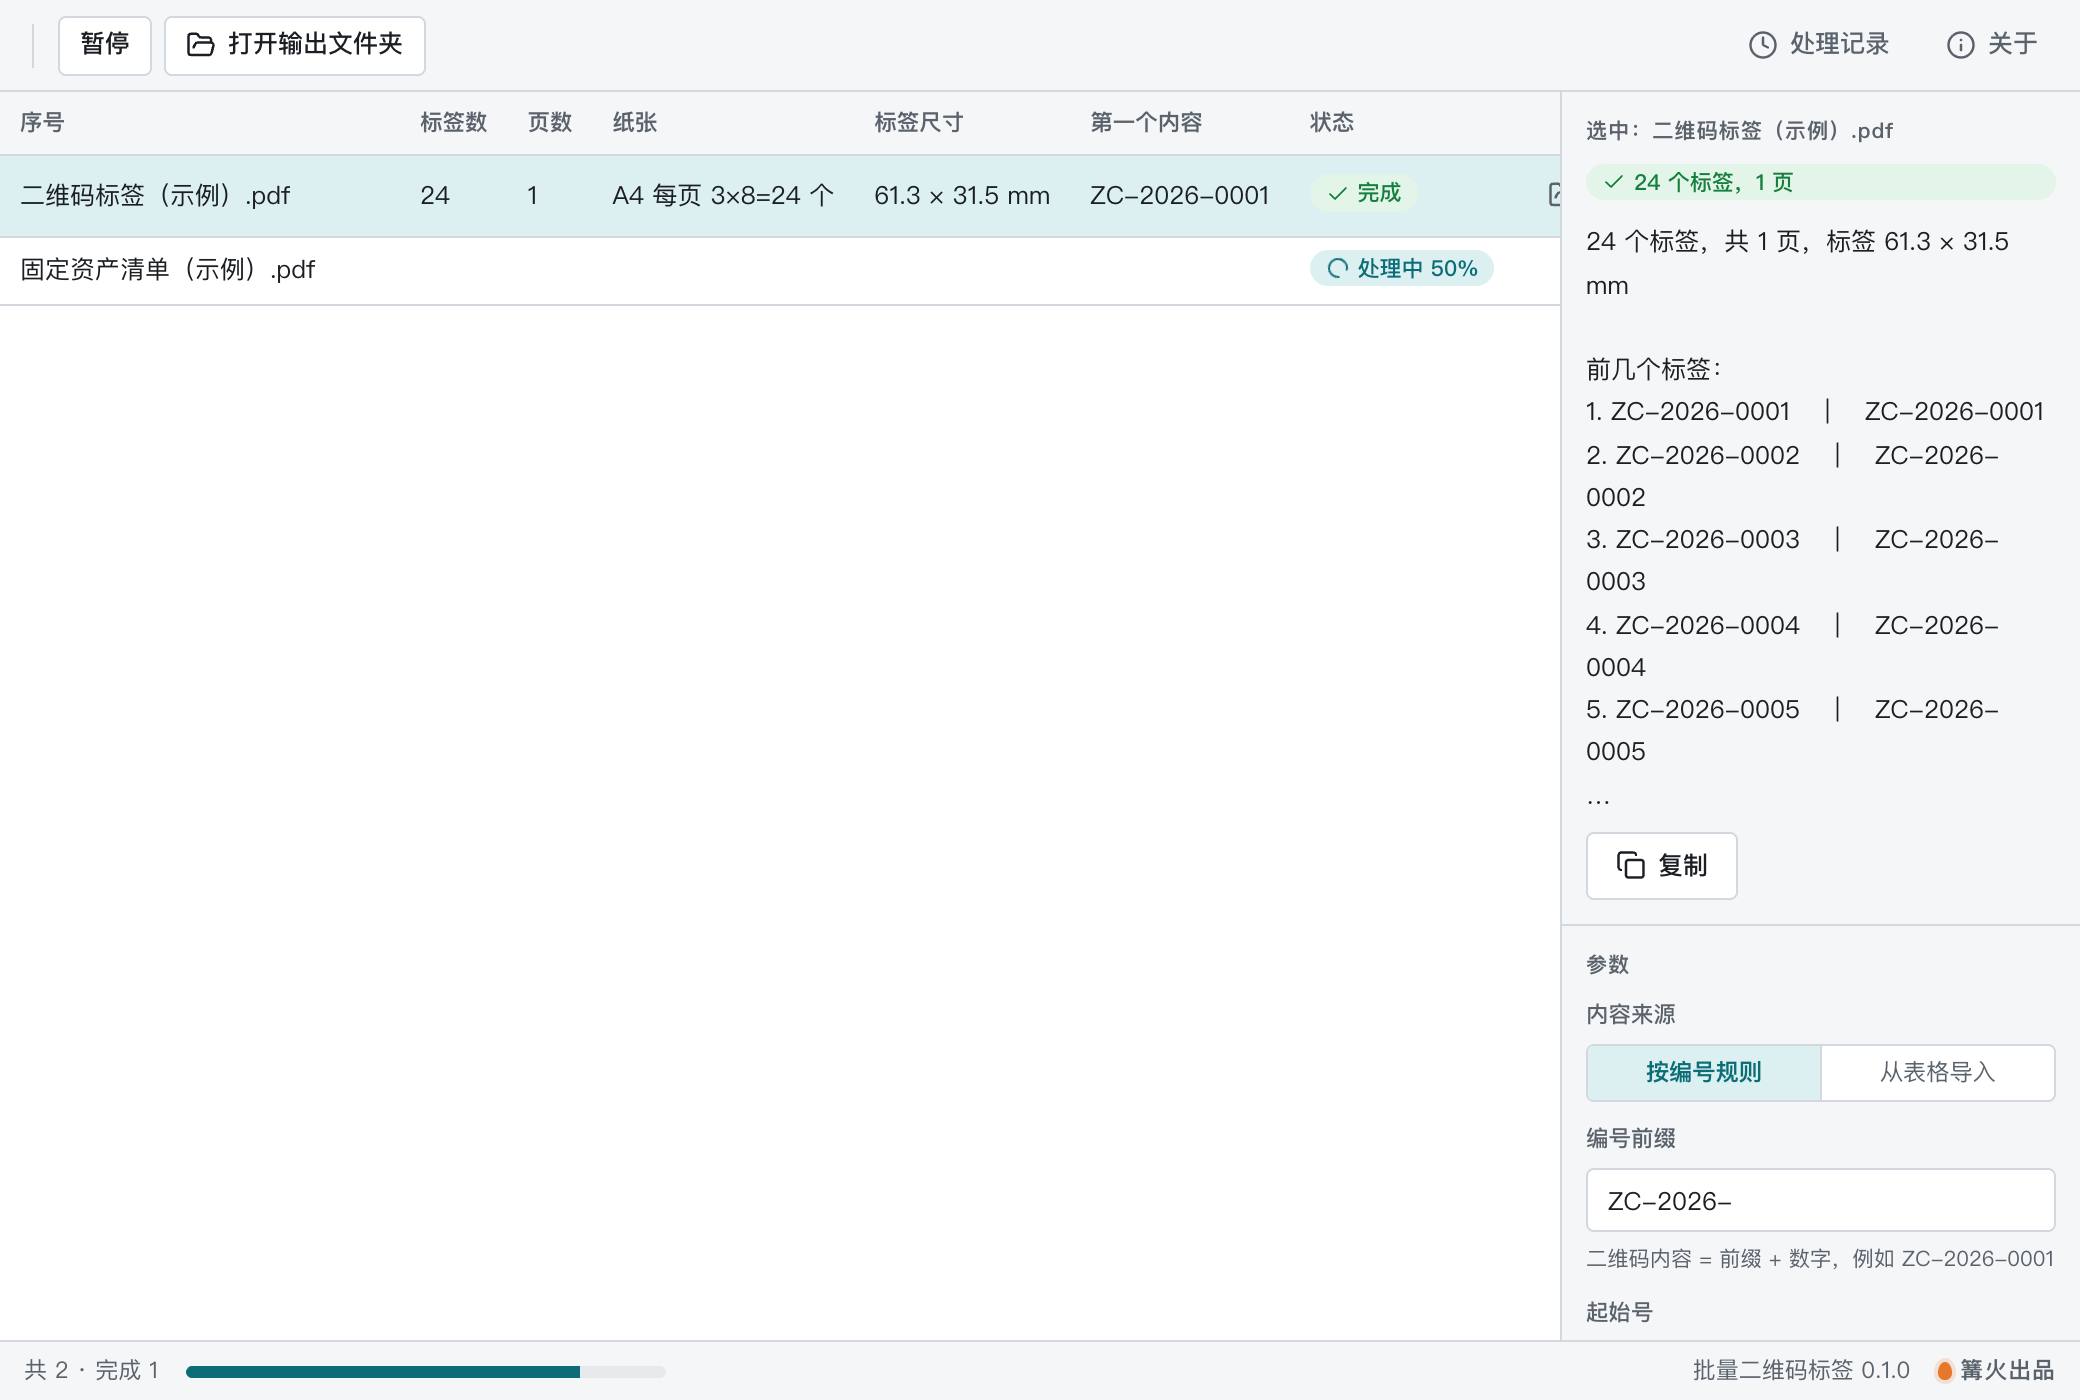
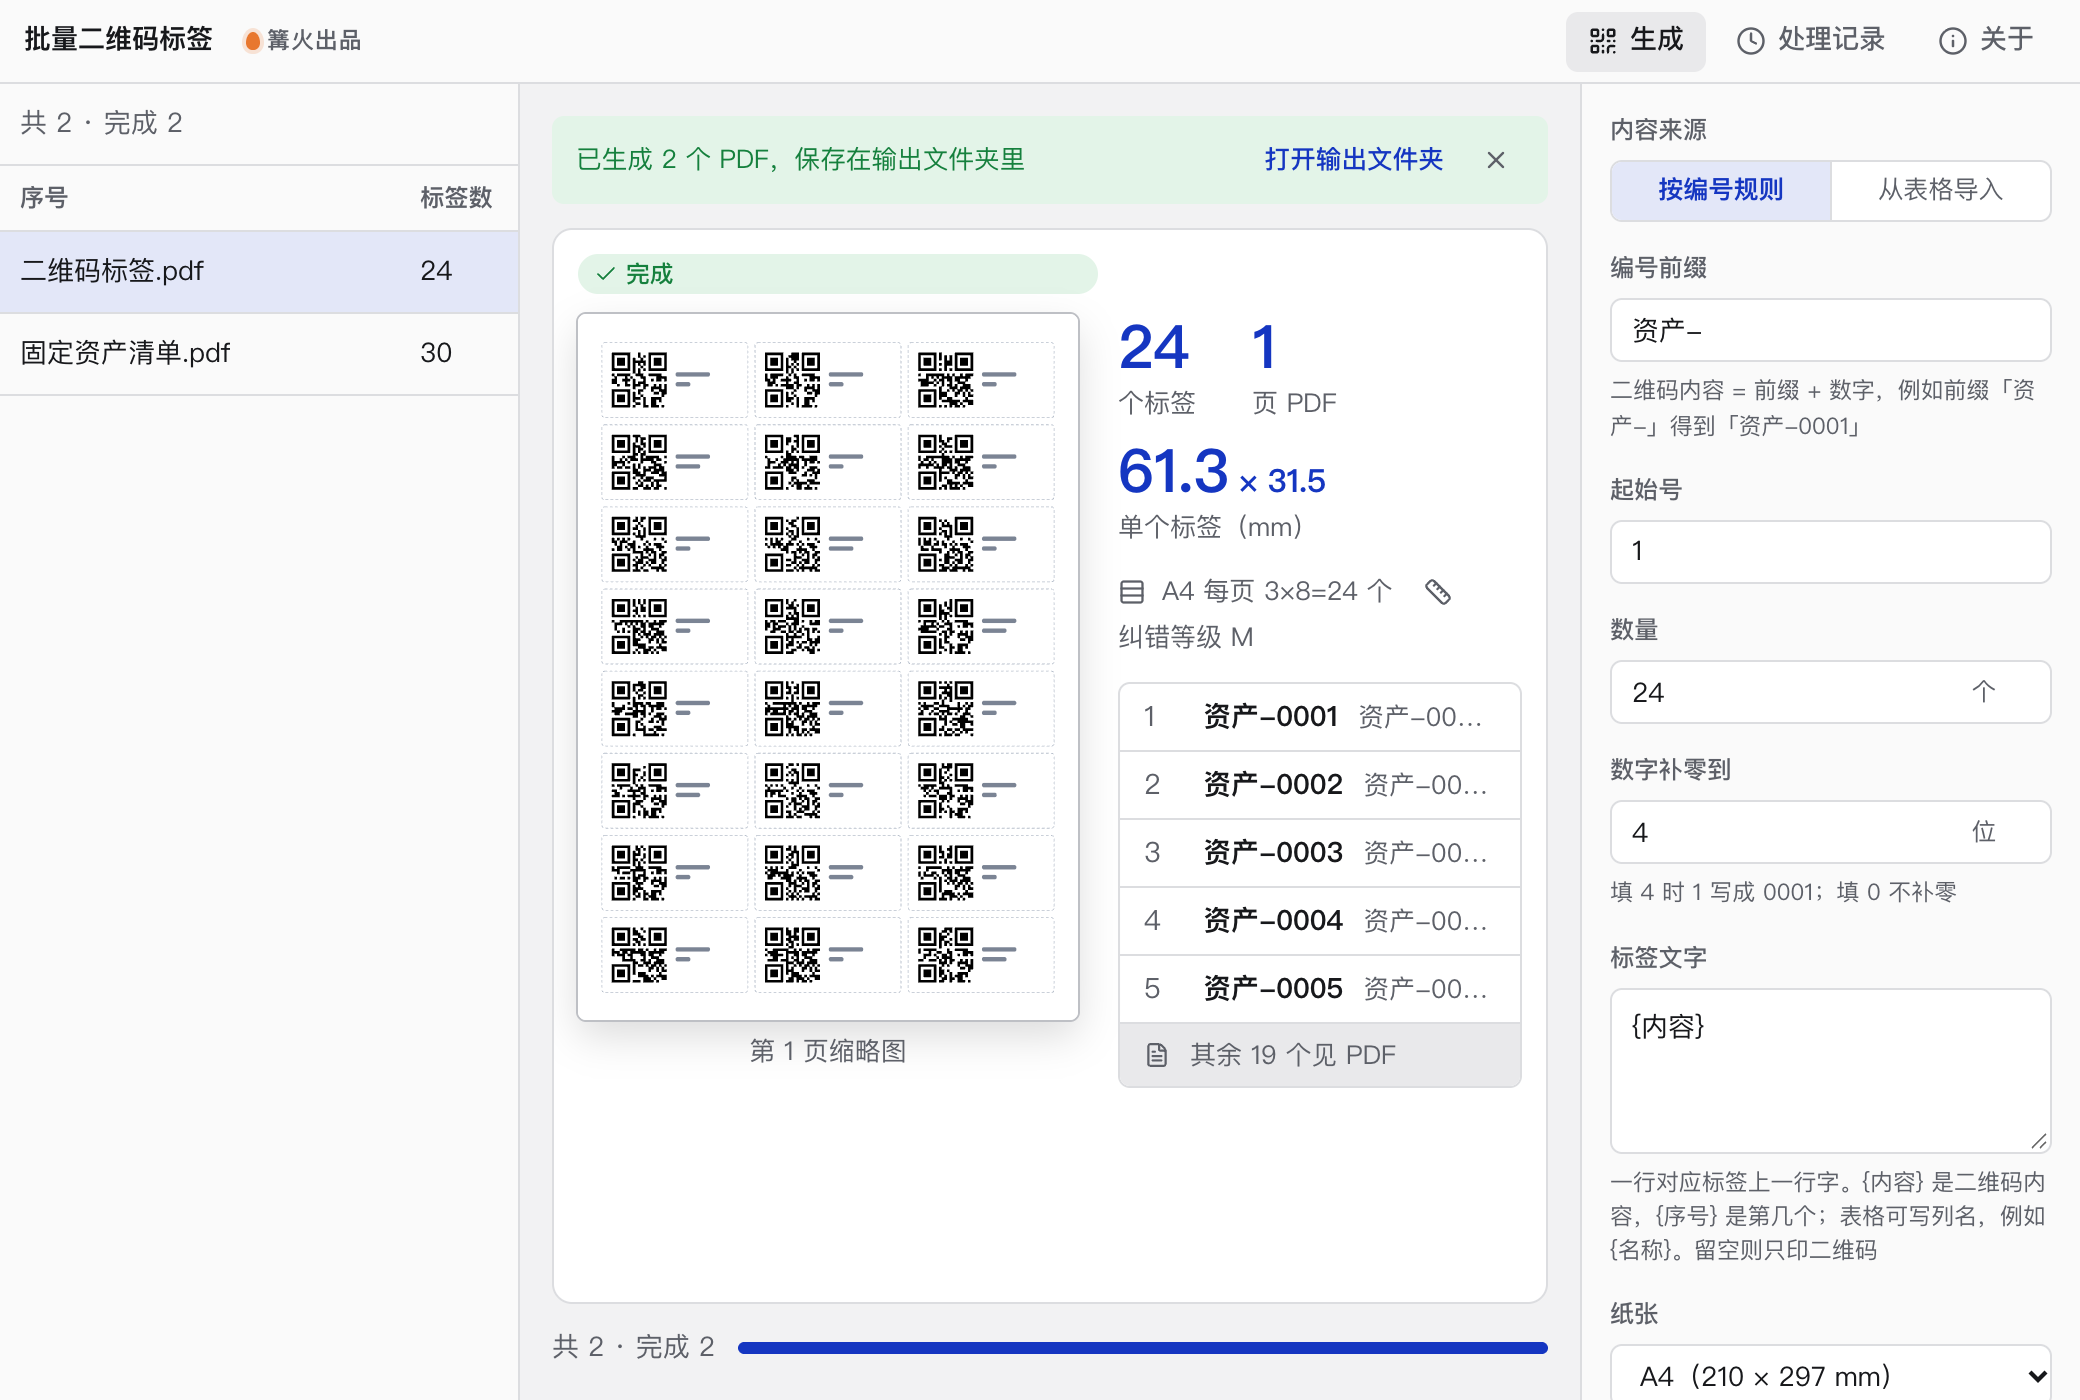
打磨 0.2.0：结果显示整页排版缩略图和大字数据，改用 d 布局

diff --git a/src/tool/Result.tsx b/src/tool/Result.tsx
@@ -1,0 +1,78 @@
+// 单次生成的结果：左边是第一页纸的缩略排版（真实二维码按行列摆好），右边是三个大数字和前几个标签的内容
+import { useMemo } from 'react';
+import { FileText, Ruler, Rows3 } from 'lucide-react';
+import type { InputItem, ItemResult } from '../kit/types';
+import { fmt, innerLayout, qrPath, slot, type Label, type Sheet } from './core';
+import { qrMatrix, type Ecc } from './pdf';
+import './tool.css';
+
+export interface Stat {
+  sheet: Sheet;
+  count: number;
+  pages: number;
+  paper: string;
+  layout: 'left' | 'top';
+  padding: number;
+  fontPt: number;
+  ecc: Ecc;
+  /** 第一页上的标签（最多 48 个），用来画缩略图 */
+  firstPage: Label[];
+  /** 列表里展示的前几个标签 */
+  samples: Label[];
+}
+
+export function statOf(labels: Label[], sheet: Sheet, o: { paper: string; layout: 'left' | 'top'; padding: number; fontPt: number; ecc: Ecc; pages: number; count: number }): Stat {
+  const per = sheet.cols * sheet.rows;
+  return { sheet, count: o.count, pages: o.pages, paper: o.paper, layout: o.layout, padding: o.padding, fontPt: o.fontPt, ecc: o.ecc, firstPage: labels.slice(0, Math.min(per, 48)), samples: labels.slice(0, 5) };
+}
+
+function Cell({ st, label, i }: { st: Stat; label: Label; i: number }) {
+  const s = slot(st.sheet, i);
+  const { sheet } = st;
+  const m = qrMatrix(label.content, st.ecc);
+  const q = qrPath(m.size, m.dark, 2);
+  let lay;
+  try { lay = innerLayout(sheet.labelW, sheet.labelH, { layout: st.layout, padding: st.padding, lines: label.lines.length, fontPt: st.fontPt }); } catch { return null; }
+  const lh = (st.fontPt * 1.3) / (72 / 25.4);
+  return (
+    <g transform={`translate(${s.x} ${s.y})`}>
+      <rect width={sheet.labelW} height={sheet.labelH} rx="1.2" className="qr-cell" />
+      <g transform={`translate(${lay.qr.x} ${lay.qr.y}) scale(${lay.qr.w / q.total})`}><path d={q.path} className="qr-ink" /></g>
+      {lay.text && label.lines.slice(0, Math.max(1, Math.floor(lay.text.h / lh))).map((l, k) => (
+        <rect key={k} x={lay.text!.x} y={lay.text!.y + (lay.text!.h - Math.min(label.lines.length, Math.floor(lay.text!.h / lh)) * lh) / 2 + k * lh + lh * 0.2} width={Math.min(lay.text!.w, [...l].length * lh * 0.5)} height={lh * 0.45} rx={lh * 0.2} className="qr-line" />
+      ))}
+    </g>
+  );
+}
+
+export function ResultBody({ result }: { item: InputItem; result: ItemResult }) {
+  const st = result.data as Stat | undefined;
+  const cells = useMemo(() => (st ? st.firstPage.map((l, i) => <Cell key={i} st={st} label={l} i={i} />) : null), [st]);
+  if (!st) return <p className="qr-plain">{result.summary}</p>;
+  const { sheet } = st;
+  return (
+    <div className="qr-res">
+      <figure className="qr-sheet">
+        <svg viewBox={`0 0 ${sheet.pageW} ${sheet.pageH}`} role="img" aria-label={`第 1 页：${sheet.cols} 列 × ${sheet.rows} 行，共 ${st.firstPage.length} 个标签`}>
+          <rect width={sheet.pageW} height={sheet.pageH} className="qr-page" />
+          {cells}
+        </svg>
+        <figcaption>第 1 页缩略图</figcaption>
+      </figure>
+      <div className="qr-info">
+        <div className="qr-big">
+          <div><b className="k-num">{st.count}</b><span>个标签</span></div>
+          <div><b className="k-num">{st.pages}</b><span>页 PDF</span></div>
+          <div><b className="k-num">{fmt(sheet.labelW)}<small> × {fmt(sheet.labelH)}</small></b><span>单个标签（mm）</span></div>
+        </div>
+        <p className="qr-meta"><Rows3 size={14} />{st.paper}<Ruler size={14} />纠错等级 {st.ecc}</p>
+        <ol className="qr-list">
+          {st.samples.map((l, i) => (
+            <li key={i}><span className="k-num">{i + 1}</span><b>{l.content}</b>{l.lines.length > 0 && <em>{l.lines.join(' / ')}</em>}</li>
+          ))}
+          {st.count > st.samples.length && <li className="qr-more"><FileText size={13} />其余 {st.count - st.samples.length} 个见 PDF</li>}
+        </ol>
+      </div>
+    </div>
+  );
+}

diff --git a/src/tool/preview.ts b/src/tool/preview.ts
@@ -1,42 +1,28 @@
 // 截图与预览用的示例数据（不会进入正式运行）
-import * as QRCode from 'qrcode';
 import type { Row } from '../kit/runner';
+import { A4, fmt, gridSheet, labelsFromSerials, serials } from './core';
+import { statOf } from './Result';
 
-/** 示例二维码缩略图：用工具同一个库画在画布上 */
-function qrImage(content: string) {
-  const q = QRCode.create(content, { errorCorrectionLevel: 'M' });
-  const n = q.modules.size, k = 6, pad = 4 * k, size = n * k + pad * 2;
-  const c = document.createElement('canvas');
-  c.width = c.height = size;
-  const g = c.getContext('2d')!;
-  g.fillStyle = '#fff'; g.fillRect(0, 0, size, size);
-  g.fillStyle = '#000';
-  for (let r = 0; r < n; r++) for (let col = 0; col < n; col++) if (q.modules.get(r, col)) g.fillRect(pad + col * k, pad + r * k, k, k);
-  return c.toDataURL('image/png');
-}
-
-const text = `24 个标签，共 1 页，标签 61.3 × 31.5 mm
-
-前几个标签：
-1. ZC-2026-0001　｜　ZC-2026-0001
-2. ZC-2026-0002　｜　ZC-2026-0002
-3. ZC-2026-0003　｜　ZC-2026-0003
-4. ZC-2026-0004　｜　ZC-2026-0004
-5. ZC-2026-0005　｜　ZC-2026-0005
-…`;
+const sheet = gridSheet({ pageW: A4.w, pageH: A4.h, cols: 3, rows: 8, marginX: 10, marginY: 12, gapX: 3, gapY: 3 });
+const labels = labelsFromSerials(serials({ prefix: '资产-', suffix: '', start: 1, count: 24, step: 1, pad: 4 }), '{内容}').map((l, i) => ({ ...l, lines: [l.content, ['办公椅', '升降桌', '显示器', '笔记本电脑'][i % 4]] }));
+const stat = statOf(labels, sheet, { paper: 'A4 每页 3×8=24 个', layout: 'left', padding: 2, fontPt: 9, ecc: 'M', pages: 1, count: 24 });
+const size = `${fmt(sheet.labelW)} × ${fmt(sheet.labelH)} mm`;
+const text = `24 个标签，共 1 页，标签 ${size}`;
 
 export const rows = (state: string): Row[] =>
   state === 'empty' ? [] : [
     {
-      item: { id: 'g0', name: '二维码标签（示例）.pdf', path: '' },
+      item: { id: 'g0', name: '二维码标签.pdf', path: '' },
       status: 'ok', progress: 1,
-      result: { preview: qrImage('ZC-2026-0001'), summary: '24 个标签，1 页', outputPath: '/示例/输出/二维码标签.pdf', text, row: { count: 24, pages: 1, paper: 'A4 每页 3×8=24 个', size: '61.3 × 31.5 mm', first: 'ZC-2026-0001' } },
+      result: { summary: '24 个标签，1 页', outputPath: '/示例/输出/二维码标签.pdf', text, data: stat, row: { count: 24, pages: 1, paper: stat.paper, size, first: '资产-0001' } },
     },
     {
-      item: { id: 'g1', name: '固定资产清单（示例）.pdf', path: '' },
+      item: { id: 'g1', name: '固定资产清单.pdf', path: '' },
       status: state === 'done' ? 'ok' : 'run', progress: 0.5,
-      result: state === 'done' ? { summary: '30 个标签，2 页，跳过 1 个空行（第 14 行）', outputPath: '/示例/输出/固定资产清单.pdf', row: { count: 30, pages: 2, paper: 'A4 每页 3×8=24 个', size: '61.3 × 31.5 mm', first: 'ZC-2026-0001' } } : undefined,
+      result: state === 'done' ? { summary: '30 个标签，2 页，跳过 1 个空行（第 14 行）', outputPath: '/示例/输出/固定资产清单.pdf', data: { ...stat, count: 30, pages: 2 }, row: { count: 30, pages: 2, paper: stat.paper, size, first: '资产-0001' } } : undefined,
     },
   ];
 
-export const params = { source: 'rule', prefix: 'ZC-2026-', start: 1, count: 24 };
+export const params = { source: 'rule', prefix: '资产-', start: 1, count: 24 };
+
+export const notice = { kind: 'ok' as const, text: '已生成 2 个 PDF，保存在输出文件夹里' };

diff --git a/src/tool/index.ts b/src/tool/index.ts
@@ -5,6 +5,8 @@ import { A4, fmt, gridSheet, labelsFromSerials, labelsFromTable, perPage, rollSh
 import { buildPdf, type Ecc, type TextRenderer } from './pdf';
 import { canvasText } from './textimg';
 import { readGrid } from './xlsx';
+import { ResultBody, statOf } from './Result';
+import './tool.css';
 
 /** 可替换的依赖：测试里换成假的文字渲染 */
 export const deps: { render: TextRenderer } = { render: canvasText };
@@ -45,10 +47,11 @@ const tool: GenerateTool = {
   columns: [['count', '标签数'], ['pages', '页数'], ['paper', '纸张'], ['size', '标签尺寸'], ['first', '第一个内容']],
   concurrency: 1,
   generateLabel: '生成 PDF',
+  ResultBody,
   itemName: (_i, p) => `${safeName(String(p.name))}.pdf`,
   params: [
     { key: 'source', label: '内容来源', type: 'segment', options: [['rule', '按编号规则'], ['excel', '从表格导入']], default: 'rule' },
-    { key: 'prefix', label: '编号前缀', type: 'text', default: 'ZC-2026-', placeholder: '例如 ZC-2026-', when: (p) => p.source === 'rule', help: '二维码内容 = 前缀 + 数字，例如 ZC-2026-0001' },
+    { key: 'prefix', label: '编号前缀', type: 'text', default: 'ZC-2026-', placeholder: '例如 资产-2026-', when: (p) => p.source === 'rule', help: '二维码内容 = 前缀 + 数字，例如前缀「资产-」得到「资产-0001」' },
     { key: 'start', label: '起始号', type: 'number', default: 1, min: 0, when: (p) => p.source === 'rule' },
     { key: 'count', label: '数量', type: 'number', default: 24, min: 1, max: 10000, unit: '个', when: (p) => p.source === 'rule' },
     { key: 'pad', label: '数字补零到', type: 'number', default: 4, min: 0, max: 12, unit: '位', when: (p) => p.source === 'rule', help: '填 4 时 1 写成 0001；填 0 不补零' },
@@ -98,6 +101,7 @@ const tool: GenerateTool = {
       title: name,
       outputPath,
       summary: `${labels.length} 个标签，${r.pages} 页${note}`,
+      data: statOf(labels.slice(0, 48), sheet, { paper, layout: p.layout === 'top' ? 'top' : 'left', padding: Number(p.padding), fontPt: Number(p.fontPt), ecc: (String(p.ecc) as Ecc) || 'M', pages: r.pages, count: labels.length }),
       row: { count: labels.length, pages: r.pages, paper, size, first: labels[0].content },
       text: `${labels.length} 个标签，共 ${r.pages} 页，标签 ${size}${note}\n\n前几个标签：\n${sampleText}${labels.length > 5 ? '\n…' : ''}`,
     };

diff --git a/src/tool/tool.css b/src/tool/tool.css
@@ -1,0 +1,26 @@
+/* 批量二维码标签：缩略图与三个大数字；只用 kit.css 变量 */
+.qr-res { display: grid; grid-template-columns: 250px minmax(0, 1fr); gap: 20px; align-items: start; width: 100%; min-width: 0; font-size: 14px; }
+.qr-sheet { margin: 0; display: grid; gap: 6px; justify-items: center; }
+.qr-sheet svg { width: 100%; height: auto; display: block; border-radius: 4px; box-shadow: 0 0 0 1px var(--line-strong), 0 8px 20px rgba(0, 0, 0, .14); }
+.qr-sheet figcaption { color: var(--muted); font-size: 13px; }
+.qr-page { fill: #fff; }
+.qr-cell { fill: #fff; stroke: #b8c0cc; stroke-width: .35; stroke-dasharray: 1.2 .9; }
+.qr-ink { fill: #000; }
+.qr-line { fill: #7b8494; }
+.qr-info { display: grid; gap: 12px; min-width: 0; }
+.qr-big { display: flex; flex-wrap: wrap; gap: 8px 28px; }
+.qr-big div { display: grid; gap: 2px; }
+.qr-big b { font-size: 30px; line-height: 1.1; color: var(--primary); letter-spacing: -.01em; }
+.qr-big b small { font-size: 16px; font-weight: 600; }
+.qr-big span { color: var(--muted); font-size: 13px; }
+.qr-meta { margin: 0; display: flex; flex-wrap: wrap; align-items: center; gap: 4px 8px; color: var(--muted); font-size: 13px; }
+.qr-meta svg:not(:first-child) { margin-left: 8px; }
+.qr-list { list-style: none; margin: 0; padding: 0; display: grid; border: 1px solid var(--line); border-radius: var(--radius); overflow: hidden; }
+.qr-list li { display: flex; align-items: baseline; gap: 10px; min-height: 32px; padding: 6px 12px; border-top: 1px solid var(--line); min-width: 0; }
+.qr-list li:first-child { border-top: 0; }
+.qr-list li > span { color: var(--muted); width: 1.4em; flex: none; }
+.qr-list b { font-weight: 600; white-space: nowrap; }
+.qr-list em { font-style: normal; color: var(--muted); font-size: 13px; overflow: hidden; text-overflow: ellipsis; white-space: nowrap; }
+.qr-list .qr-more { color: var(--muted); font-size: 13px; align-items: center; background: var(--chip); }
+.qr-plain { margin: 0; }
+@media (max-width: 640px) { .qr-res { grid-template-columns: 1fr; } .qr-sheet { max-width: 220px; } }

diff --git a/CHANGELOG.md b/CHANGELOG.md
@@ -1,5 +1,11 @@
 # 更新记录
 
+## 0.2.0
+
+- 界面改版：生成结果显示第一页的排版缩略图（真实二维码和文字位置），旁边用大字显示标签数、页数、单个标签的毫米尺寸，并列出前几个标签的内容。
+- 布局改为左侧结果列表、右侧预览、最右参数面板。
+- 主色换成深蓝；示例编号和提示文字改成中文例子；术语表补充毫米和 A4。
+
 ## 0.1.0
 
 - 首个版本。
